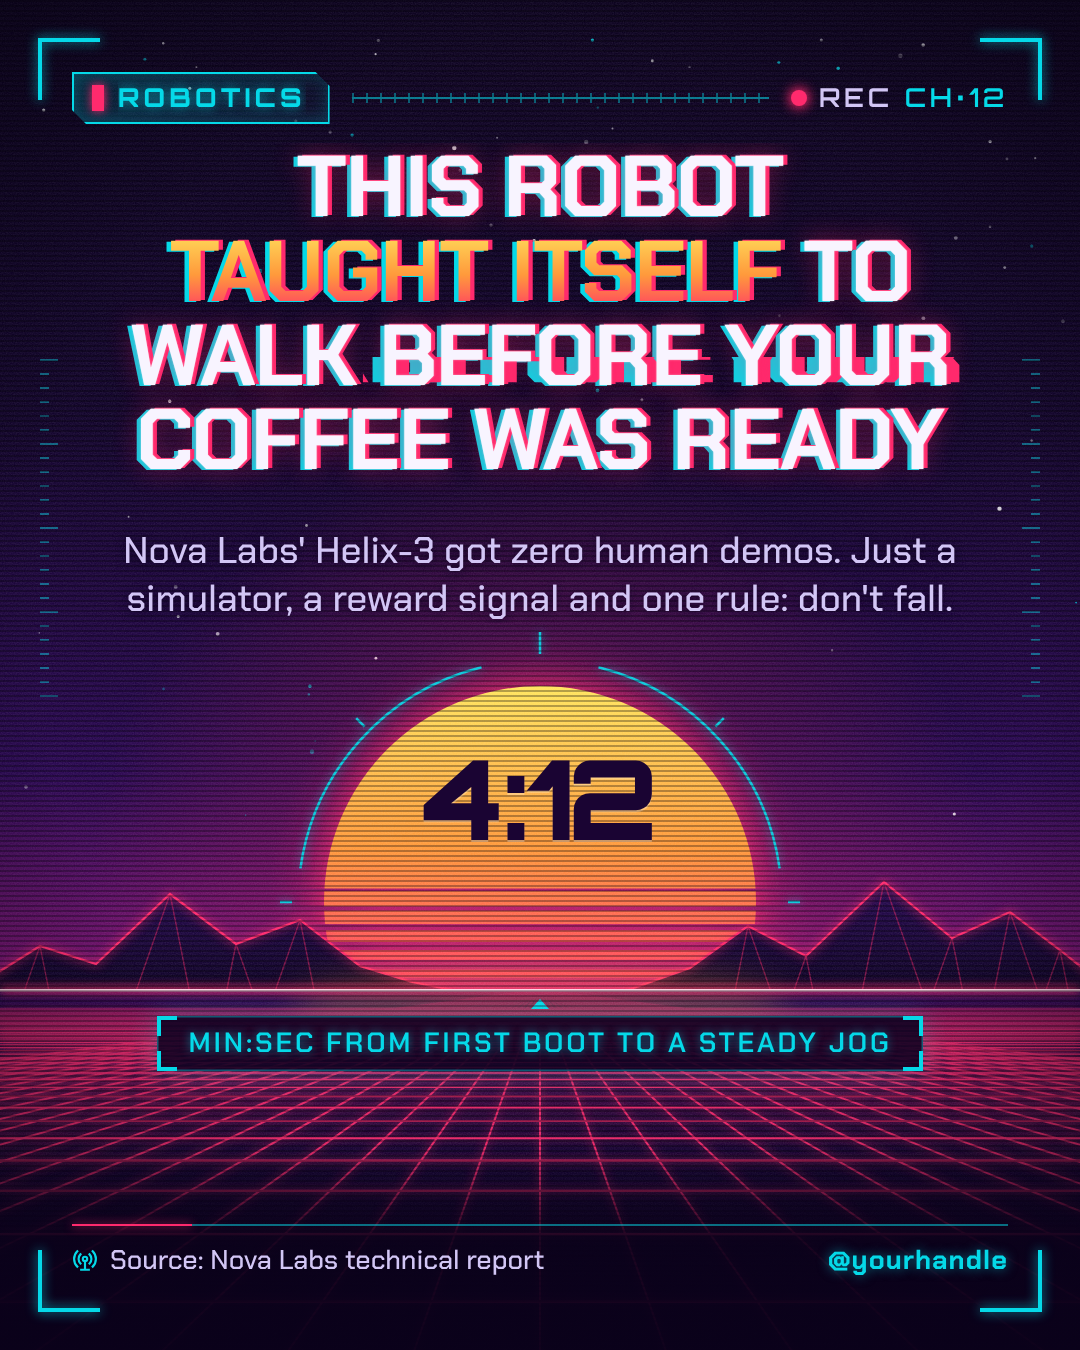
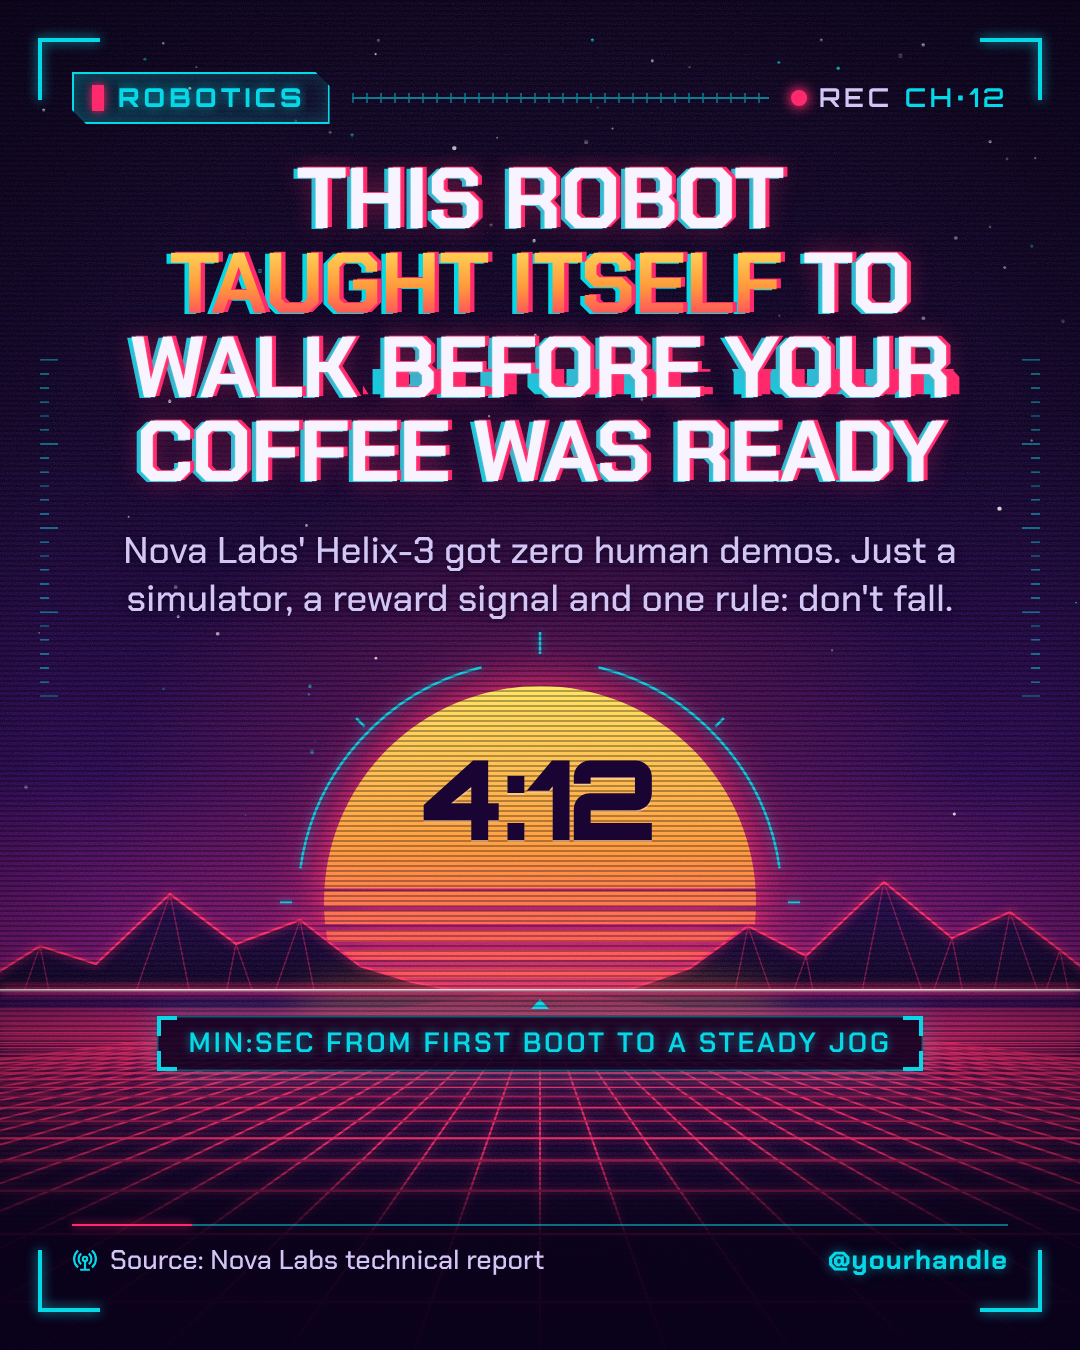
WIP: card designs in progress
Claude-Session: https://claude.ai/code/session_012JEWJmTh6XYE3zLHaoms5L

Changed region(s): [[0.1222, 0.0933, 0.8861, 0.3733]]

diff --git a/ai-news-cards/designs/20-blueprint/card.html b/ai-news-cards/designs/20-blueprint/card.html
@@ -184,6 +184,10 @@
     #card.tight .tldr { margin-top: 32px; padding-top: 26px; padding-bottom: 20px; }
     #card.tight .lower { margin-top: 26px; }
     #card.tight .points { gap: 16px; }
+    #card.tight .tb-cell { flex-direction: row; align-items: baseline; gap: 16px; padding-top: 11px; padding-bottom: 11px; }
+    #card.tight .tb-lab { flex: 0 0 auto; }
+    #card.tight .tb-r2 .tb-cell { padding-bottom: 40px; }
+    #card.tight .tb-r2.wrapped .tb-date { padding-bottom: 11px; }
 
     /* Lower zone: schematic + findings + title block. */
     .lower {
@@ -609,17 +613,20 @@
       var pts = card.querySelector('.points');
       var hasPts = card.classList.contains('has-points');
 
-      // Title block: does DRAWN BY need its own row?
+      // Title block: does DRAWN BY need its own row? (Depends on the mode, so re-checked per plan.)
       var row2 = card.querySelector('.tb-r2'), date = card.querySelector('.tb-date'), by = card.querySelector('.tb-by');
-      row2.classList.remove('wrapped');
-      if (!date.hidden && !by.hidden && by.offsetTop > date.offsetTop + 2) row2.classList.add('wrapped');
+      function setMode(plan) {
+        card.classList.toggle('wide', plan.wide);
+        card.classList.toggle('tight', plan.tight);
+        row2.classList.remove('wrapped');
+        if (!date.hidden && !by.hidden && by.offsetTop > date.offsetTop + 2) row2.classList.add('wrapped');
+        return card.querySelector('.tb').offsetHeight;
+      }
 
       function pick(cands, headSize, ptsSize) {
         for (var i = 0; i < cands.length; i++) {
           lower.style.flexBasis = cands[i] + 'px';
-          var hok = headOK(headSize), pok = ptsOK(ptsSize);
-          if (window.__DEBUG__) console.log('try', card.className, cands[i], headSize, ptsSize, hok, pok, head.scrollHeight, head.clientHeight, pts.scrollHeight, pts.clientHeight);
-          if (hok && pok) return cands[i];
+          if (headOK(headSize) && ptsOK(ptsSize)) return cands[i];
         }
         return null;
       }
@@ -633,29 +640,30 @@
         pts.style.fontSize = size + 'px';
         return pts.scrollHeight <= pts.clientHeight + 1;
       }
-      var tbH = card.querySelector('.tb').offsetHeight;
       function atLeast(list, min) {
         var out = list.filter(function (c) { return c >= min; });
         return out.length ? out : [Math.ceil(min)];
       }
-      var side = [470, 450, 430, 410, 390, 370, 350];
-      var wideC = [560, 530, 500, 470, 440, 410, 380, 350, 320, 290];
+      function range(hi, lo, step) { var out = []; for (var v = hi; v >= lo; v -= step) out.push(v); return out; }
+      var side = range(470, 350, 10);
+      var wideC = range(600, 280, 10);
       var plans = hasPts ? [
         { wide: false, tight: false, c: side, tries: [[88, 34], [72, 34]] },
         { wide: true,  tight: false, c: wideC, tries: [[88, 34], [72, 34], [72, 32]] },
         { wide: true,  tight: true,  c: wideC, tries: [[72, 32], [64, 32], [64, 30]] }
       ] : [
-        { wide: false, tight: false, c: atLeast([400, 370, 340, 310, 280], tbH + 170), tries: [[88, 34], [72, 34], [64, 34]] },
-        { wide: false, tight: true,  c: atLeast([340, 310, 280, 250], tbH + 130), tries: [[64, 34]] }
+        { wide: false, tight: false, c: [400, 370, 340, 310, 280], min: 170, tries: [[88, 34], [72, 34], [64, 34]] },
+        { wide: false, tight: true,  c: [340, 310, 280, 250], min: 130, tries: [[64, 34]] }
       ];
-      var choice = null, plan;
+      var choice = null, plan, cands;
       for (var k = 0; k < plans.length && choice === null; k++) {
         plan = plans[k];
-        card.classList.toggle('wide', plan.wide);
-        card.classList.toggle('tight', plan.tight);
-        for (var t = 0; t < plan.tries.length && choice === null; t++) choice = pick(plan.c, plan.tries[t][0], plan.tries[t][1]);
+        var tbH = setMode(plan);
+        cands = plan.min ? atLeast(plan.c, tbH + plan.min) : plan.c;
+        for (var t = 0; t < plan.tries.length && choice === null; t++) choice = pick(cands, plan.tries[t][0], plan.tries[t][1]);
       }
-      if (choice === null) choice = plan.c[plan.c.length - 1];
+      if (choice === null) choice = cands[cands.length - 1];
+
       lower.style.flexBasis = choice + 'px';
       head.style.fontSize = '';
       pts.style.fontSize = '';

diff --git a/ai-news-cards/designs/15-versus/card.html b/ai-news-cards/designs/15-versus/card.html
@@ -478,10 +478,10 @@
 
       tightenKicker();
 
-      /* headline size ladder: two lines up to 86px, three lines up to 74px, else down to the 64px floor */
+      /* headline size ladder: one line up to 112px, two up to 86px, three up to 74px, else down to the 64px floor */
       var hl = card.querySelector('.headline');
       if (hl && !hl.hidden) {
-        var ladder = [[86, 2], [80, 2], [74, 3], [68, 3], [64, 99]];
+        var ladder = [[112, 1], [100, 1], [86, 2], [80, 2], [74, 3], [68, 3], [64, 99]];
         hl.style.maxHeight = 'none';
         for (var li = 0; li < ladder.length; li++) {
           var fs = ladder[li][0];
@@ -551,7 +551,7 @@
         Card.fit();
         for (var k = 0; k < scales.length; k++) {
           card.style.setProperty('--sc', scales[k]);
-          fitNames(Math.round(120 * scales[k]));
+          fitNames(Math.round(132 * scales[k]));
           fitValues(Math.round(68 * scales[k]));
           alignRows();
           if (!tight()) break search;

diff --git a/ai-news-cards/designs/07-myth-vs-fact/card.html b/ai-news-cards/designs/07-myth-vs-fact/card.html
@@ -204,7 +204,7 @@
 
     <section class="zone-myth">
       <div class="myth-hatch"></div>
-      <div class="fit myth-fit" data-fit data-fit-max="128" data-fit-min="42">
+      <div class="fit myth-fit" data-fit data-fit-max="150" data-fit-min="42">
         <div class="group">
           <div class="pill pill-myth">
             <svg viewBox="0 0 40 40" aria-hidden="true">
@@ -222,7 +222,7 @@
     <section class="zone-fact">
       <div class="fact-echo"></div>
       <div class="fact-bg"></div>
-      <div class="fit fact-fit" data-fit data-fit-max="66" data-fit-min="34">
+      <div class="fit fact-fit" data-fit data-fit-max="76" data-fit-min="34">
         <div class="group">
           <div class="pill pill-fact">
             <svg viewBox="0 0 40 40" aria-hidden="true">

diff --git a/ai-news-cards/designs/16-pop-comic/card.html b/ai-news-cards/designs/16-pop-comic/card.html
@@ -108,9 +108,9 @@
       border-top: 4px dashed var(--ink);
       font-size: 28px; font-weight: 700; letter-spacing: .02em;
       white-space: nowrap; overflow: hidden;
-      display: flex; align-items: center; justify-content: flex-end; gap: 12px;
+      display: flex; align-items: center; justify-content: safe flex-end; gap: 10px;
     }
-    .handle svg { width: 36px; height: 30px; flex: none; }
+    .handle svg { width: 34px; height: 28px; flex: none; }
     .subhead[hidden] + .handle { margin-top: 0; padding-top: 0; border-top: 0; }
 
     /* ---------- starburst (breaks out of the panel) ---------- */
